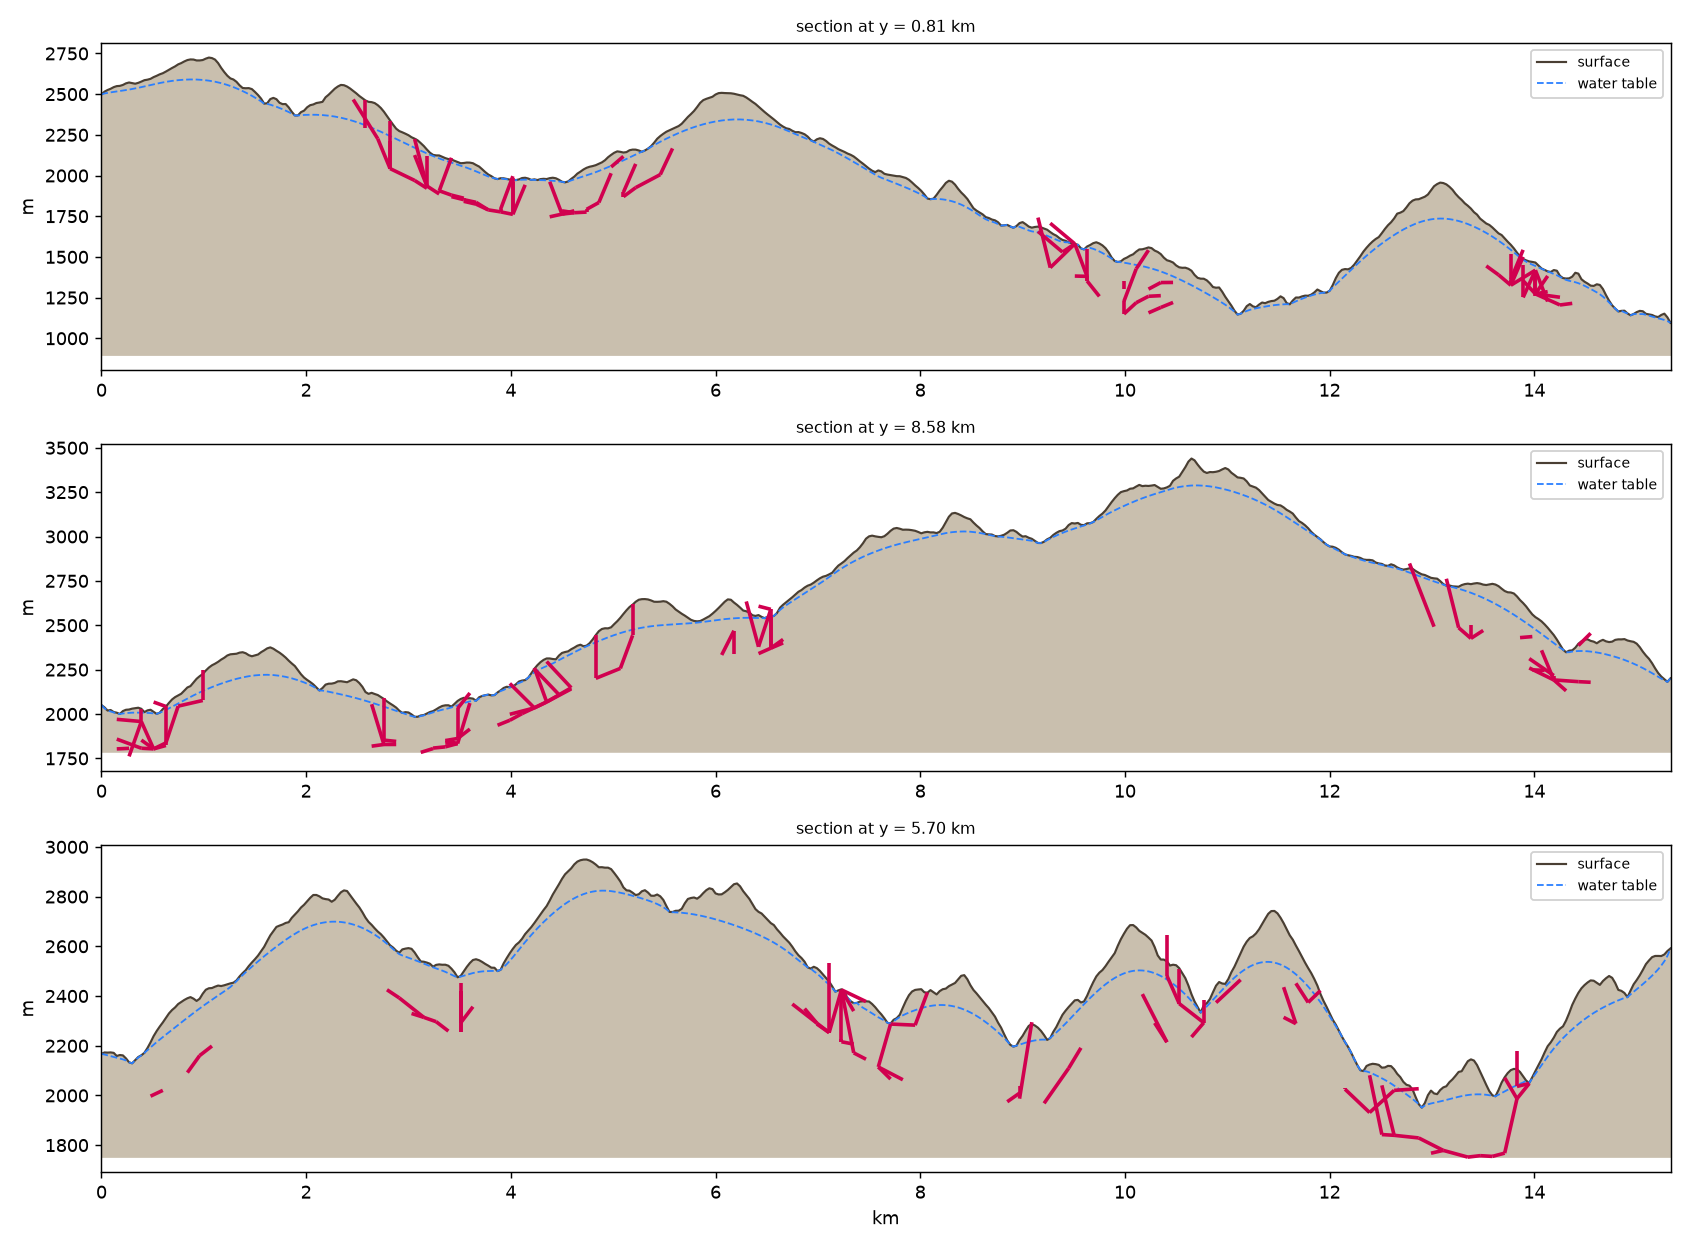
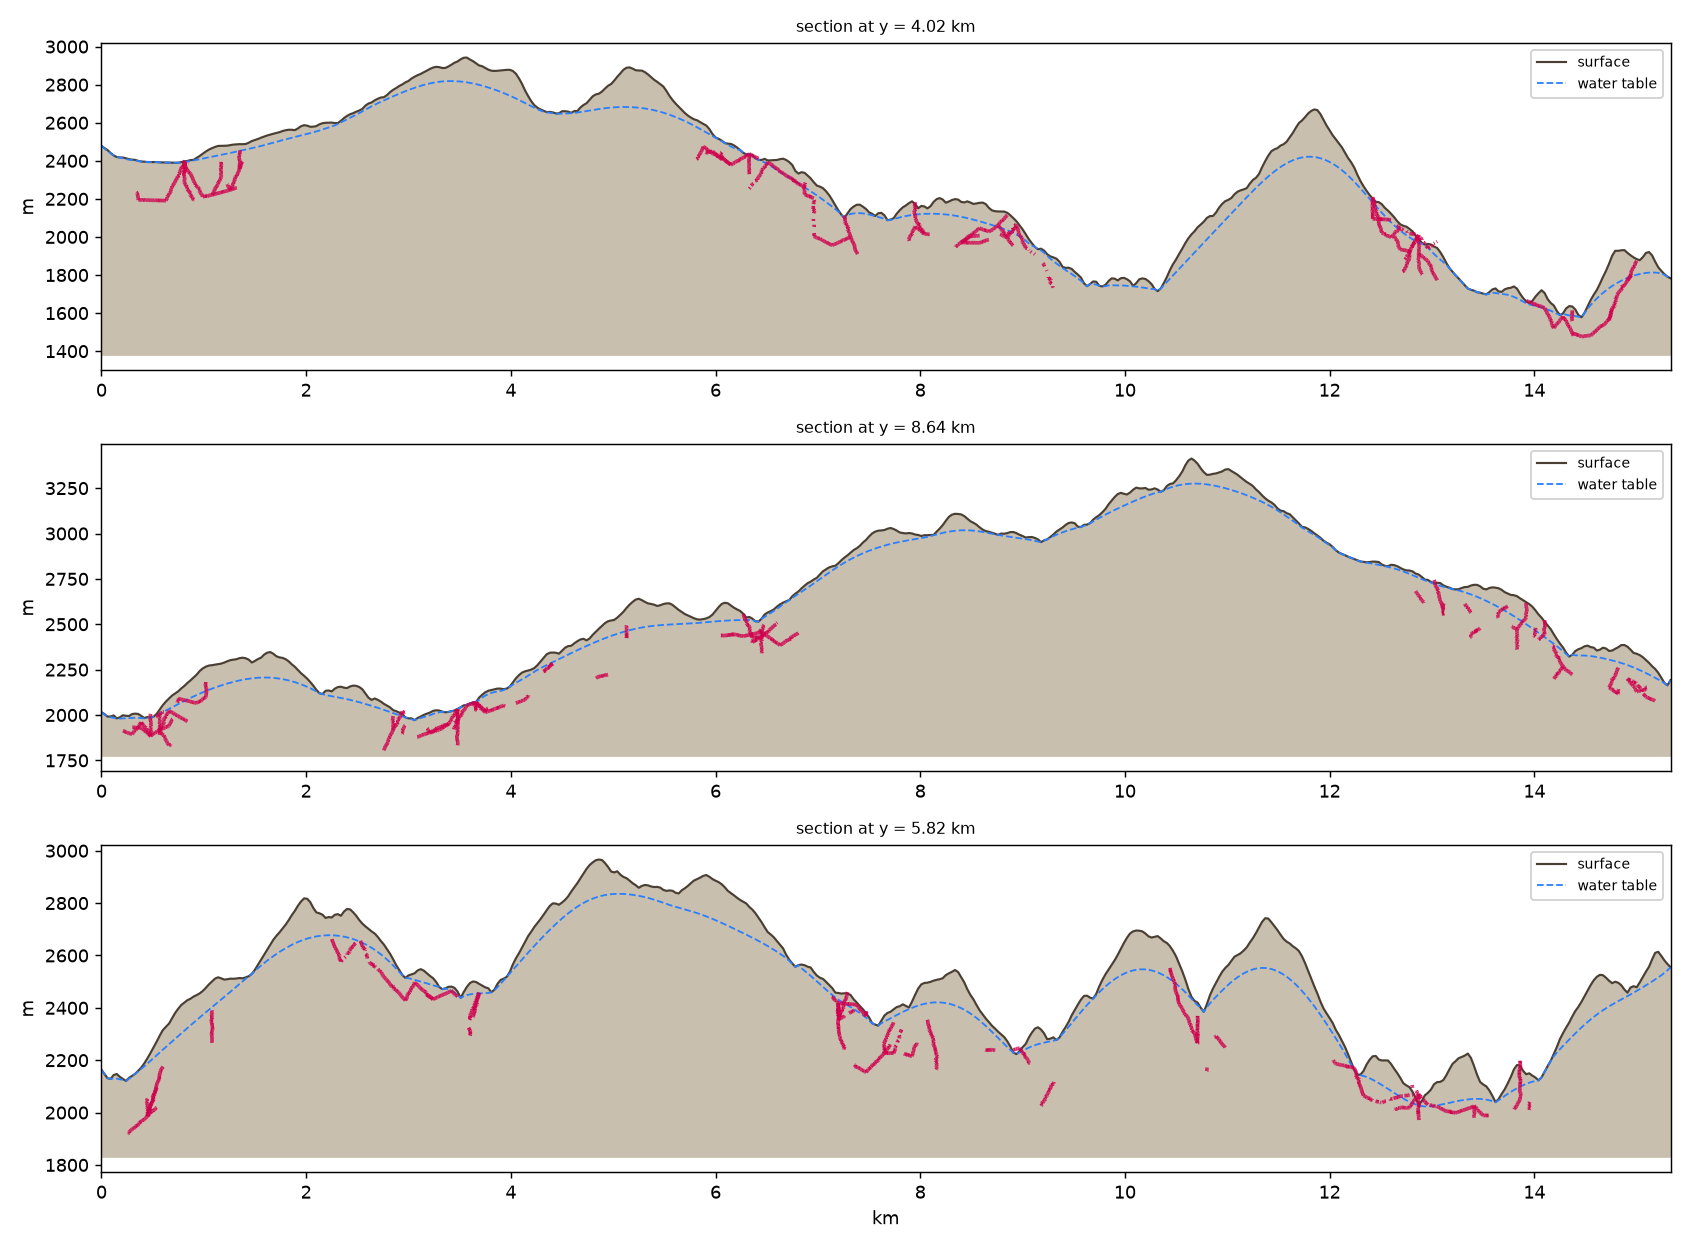
karst: sinuosity fixed -- tortuosity 1.14 -> 1.30, straight chains 45.6% -> 0.4%
Acceptance target from the previous commit MET (mean >= 1.3, straight < 10%).
Settings: node spacing 80 m, gamma 1.05, 20 dead-ends, wander 3.0, piece 5 m,
wander-z 0.10. Density 2.04 km/km^2, still inside the owner's 5x band.

THREE THINGS WERE WRONG, AND ONLY THE THIRD MATTERED.

1. HORIZONS WERE 2D. `incept` was the stratigraphic field sampled at the SURFACE
   and stored as a 2D array, then indexed by [my, mx] regardless of the node's
   z -- so a conduit at 1,900 m and one at 2,100 m in the same column got
   IDENTICAL horizon cost. The term carried no depth information whatsoever and
   could not make a route follow a bedding plane. Fixed: `inception_at`
   evaluated in 3D at the edge's own z, with one field shared by both stages
   rather than a second copy. It changed almost nothing on its own (1.098 mean,
   67.7% straight) and was worth fixing because it was wrong, not because it was
   the cause.

2. THE COST WEIGHTS CANNOT BEND A ROUTE, AND THAT IS MATHEMATICS RATHER THAN
   TUNING. Every term is multiplied by segment length, so the total is k*length
   with k varying slowly, and shortest-path over a smooth cost field is
   near-straight. Swept 3x3 over spacing and weights: mean tortuosity moved
   1.082 -> 1.156, nowhere near the target. Recorded so nobody sweeps it again.

3. SINUOSITY HAS TO BE ADDED, NOT OPTIMISED FOR -- what the reference method's
   midpoint subdivision does and what Minecraft's noise carving does. I had
[…]

diff --git a/terrain-service/tools/karst_network.py b/terrain-service/tools/karst_network.py
@@ -47,6 +47,11 @@ from scipy.sparse import coo_matrix
 from scipy.sparse.csgraph import dijkstra
 from scipy.spatial import cKDTree
 
+import sys as _sys, pathlib as _pl
+_sys.path.insert(0, str(_pl.Path(__file__).resolve().parent))
+from karst_prototype import inception_at  # noqa: E402  -- ONE horizon field, not two
+from karst_voxel import subdivide          # noqa: E402  -- ONE subdivision, not two
+
 GRID_M = 30.0
 EXAGGERATION = 5.0
 
@@ -58,6 +63,8 @@ W_PERM = 30.0
 W_FRACTURE = 15.0
 W_VADOSE = 40.0
 HORIZON_SHARP = 1.0
+FOLD = None
+SEED = 0
 BIG = 1.0e7
 
 #: Vertical sampling band, relative to the water table. Conduits form in a band
@@ -199,7 +206,12 @@ def edge_costs(nodes, idx_a, idx_b, elev, head, incept, coher, theta, log2acc):
     # line. `horizon_sharp` > 1 turns the horizon term into a narrow band, so
     # being ON a horizon is dramatically cheaper than being near one and the
     # route has a reason to bend.
-    horiz = np.clip(np.abs(incept[my, mx]), 0.0, 1.0) ** HORIZON_SHARP
+    # HORIZONS ARE EVALUATED IN 3D, AT THE EDGE'S OWN z. The previous version
+    # indexed a 2D array of the stratigraphic field sampled at the SURFACE, so
+    # a conduit at 1,900 m and one at 2,100 m in the same column got identical
+    # horizon cost -- the term carried no depth information and could not make
+    # a route follow a bedding plane. That is why conduits came out straight.
+    horiz = np.clip(np.abs(inception_at(mz, FOLD[my, mx], SEED)), 0.0, 1.0) ** HORIZON_SHARP
     cost += W_HORIZON * horiz * length / GRID_M
 
     # Permeability: high flow accumulation marks stress-relief fracturing and
@@ -334,7 +346,7 @@ def main() -> int:
     # the same trap docs/backlog.md section 0.6 already records for
     # GPUCullMergeGap and GPUCullMaxRanges. The `global` has to be declared
     # before argparse reads these names for its defaults.
-    global NODE_SPACING_M, NEIGHBOURS, W_DIST, W_HORIZON, HORIZON_SHARP
+    global NODE_SPACING_M, NEIGHBOURS, W_DIST, W_HORIZON, HORIZON_SHARP, FOLD, SEED
 
     ap = argparse.ArgumentParser(description=__doc__,
                                  formatter_class=argparse.RawDescriptionHelpFormatter)
@@ -348,6 +360,12 @@ def main() -> int:
     ap.add_argument("--w-horizon", type=float, default=W_HORIZON)
     ap.add_argument("--horizon-sharp", type=float, default=1.0,
                     help="exponent on the horizon term; >1 makes it a narrow band")
+    ap.add_argument("--piece-m", type=float, default=8.0,
+                    help="subdivision length for the sinuosity pass")
+    ap.add_argument("--wander-z", type=float, default=0.15,
+                    help="vertical share of the wander; see subdivide()'s note")
+    ap.add_argument("--wander", type=float, default=0.0,
+                    help="centreline displacement in piece lengths; 0 = straight")
     ap.add_argument("--deadends", type=int, default=0,
                     help="amplification key points per system (paper's Amplify)")
     ap.add_argument("--spring-sep-m", type=float, default=1500.0,
@@ -368,6 +386,10 @@ def main() -> int:
     incept, coher, theta = f["incept"], f["coher"], f["theta"]
     log2acc = f["log2acc"]
     sinks, springs = f["sinks"], f["springs"]
+    FOLD = f["fold_m"] if "fold_m" in f else np.zeros_like(elev)
+    SEED = int(f["seed_used"]) if "seed_used" in f else 20260719
+    if "fold_m" not in f:
+        print("  WARNING: fields file predates fold_m; horizons will be FLAT in z")
     rng = np.random.default_rng(12345)
 
     n_raw = len(springs)
@@ -411,10 +433,77 @@ def main() -> int:
             my = int(np.clip((a[1] + b[1]) * 0.5 / GRID_M, 0, elev.shape[0] - 1))
             depths.append(float(elev[my, mx] - (a[2] + b[2]) * 0.5))
 
+    # --- SINUOSITY, applied to the NETWORK rather than only at render time.
+    #
+    # Shortest-path over a smooth cost field is near-straight as a matter of
+    # mathematics, so no weighting of the geological terms will produce a
+    # meander -- swept, and it does not (mean tortuosity moved 1.08 -> 1.16
+    # across a 3x3 of spacing and weights). Real conduit sinuosity at the 10-50 m
+    # scale does not come from optimising a smooth field either; it comes from
+    # following discrete fractures and irregular dissolution. So it is ADDED,
+    # which is what the reference method's midpoint subdivision does and what
+    # Minecraft's noise carving does.
+    #
+    # It belongs HERE and not in the voxeliser: the skeleton is what gets baked,
+    # measured and shipped, and a sinuosity that exists only in a preview is a
+    # sinuosity the game never sees.
+    if args.wander > 0 and all_segments:
+        segs_in = np.asarray([[a, b] for a, b in all_segments], float)
+        all_segments = [(a.tolist(), b.tolist())
+                        for a, b in subdivide(segs_in, args.piece_m, args.wander,
+                                              z_scale=args.wander_z)]
+        lengths = [float(np.linalg.norm(np.asarray(b) - np.asarray(a)))
+                   for a, b in all_segments]
+
     total_km = sum(lengths) / 1000.0
+
+    # --- TORTUOSITY: the metric the owner's eye caught and mine did not have.
+    # Path length divided by straight-line distance, over maximal chains through
+    # degree-2 nodes. Surveyed karst runs about 1.3-2.0; a straight line is 1.0.
+    # Measured here rather than in a side script so every run reports it.
+    def tortuosity(segments):
+        if not segments:
+            return {}
+        key = lambda p: (round(float(p[0]), 1), round(float(p[1]), 1), round(float(p[2]), 1))
+        adj = collections.defaultdict(list)
+        for a, b in segments:
+            adj[key(a)].append(key(b)); adj[key(b)].append(key(a))
+        seen, tort = set(), []
+        for start in adj:
+            if len(adj[start]) == 2:
+                continue
+            for nb in adj[start]:
+                if (start, nb) in seen:
+                    continue
+                path, prev, cur = [start], start, nb
+                while True:
+                    path.append(cur)
+                    seen.add((prev, cur)); seen.add((cur, prev))
+                    if len(adj[cur]) != 2:
+                        break
+                    nxt = [n for n in adj[cur] if n != prev]
+                    if not nxt:
+                        break
+                    prev, cur = cur, nxt[0]
+                P = np.asarray(path, float)
+                if len(P) < 2:
+                    continue
+                L = float(np.linalg.norm(np.diff(P, axis=0), axis=1).sum())
+                C = float(np.linalg.norm(P[-1] - P[0]))
+                if C > 30.0:
+                    tort.append(L / C)
+        if not tort:
+            return {}
+        a = np.asarray(tort)
+        return {"chains": len(a), "mean": round(float(a.mean()), 3),
+                "p50": round(float(np.percentile(a, 50)), 3),
+                "p90": round(float(np.percentile(a, 90)), 3),
+                "straight_frac": round(float((a < 1.05).mean()), 3)}
     area_km2 = (elev.shape[0] * GRID_M / 1000.0) * (elev.shape[1] * GRID_M / 1000.0)
     stats = {
         "gamma": args.gamma, "deadends": args.deadends,
+        "wander": args.wander, "piece_m": args.piece_m,
+        "wander_z": args.wander_z,
         "node_spacing_m": NODE_SPACING_M, "neighbours": NEIGHBOURS,
         "spring_sep_m": args.spring_sep_m,
         "systems_total": len(systems), "systems_routed": routed,
@@ -430,6 +519,7 @@ def main() -> int:
             "p90": round(float(np.percentile(depths, 90)), 1) if depths else None,
             "max": round(float(np.max(depths)), 1) if depths else None,
         },
+        "tortuosity": tortuosity(all_segments),
         "seconds": round(time.time() - t0, 1),
     }
     print(json.dumps(stats, indent=2))

diff --git a/terrain-service/tools/karst_prototype.py b/terrain-service/tools/karst_prototype.py
@@ -175,10 +175,34 @@ def _value_noise_1d(x: np.ndarray, seed: int, wavelength: float) -> np.ndarray:
     return a * (1.0 - s) + b * s
 
 
+#: Horizon constants, module-level so the network stage evaluates the SAME
+#: field rather than growing a second copy of it.
+HORIZON_WAVELENGTH_M = 36.0 * EXAGGERATION
+HORIZON_FOLD_AMP_M = 12.0 * EXAGGERATION
+HORIZON_FOLD_WAVELENGTH_M = 300.0
+
+
+def inception_fold(x_m, y_m, seed: int):
+    """The fold that displaces the stratigraphic datum. Split out because the
+    network stage needs to evaluate horizons at a NODE'S OWN z, and a 2D array
+    of the field sampled at the surface cannot answer that -- which is exactly
+    the bug that made conduits straight: the horizon term carried no depth
+    information, so it could not make a route follow a bedding plane."""
+    return (HORIZON_FOLD_AMP_M * _value_noise_1d(x_m, seed ^ 0x11, HORIZON_FOLD_WAVELENGTH_M)
+            + HORIZON_FOLD_AMP_M * _value_noise_1d(y_m, seed ^ 0x22,
+                                                   HORIZON_FOLD_WAVELENGTH_M * 0.61))
+
+
+def inception_at(z_m, fold, seed: int):
+    """Signed stratigraphic field at an arbitrary z. Zero crossings are the
+    horizons; descending crossings are strong-over-weak contacts."""
+    return _value_noise_1d(z_m + fold, seed ^ 0x33, HORIZON_WAVELENGTH_M)
+
+
 def inception_field(z_m: np.ndarray, x_m: np.ndarray, y_m: np.ndarray, seed: int,
-                    wavelength_m: float = 36.0 * EXAGGERATION,
-                    fold_amp_m: float = 12.0 * EXAGGERATION,
-                    fold_wavelength_m: float = 300.0) -> np.ndarray:
+                    wavelength_m: float = HORIZON_WAVELENGTH_M,
+                    fold_amp_m: float = HORIZON_FOLD_AMP_M,
+                    fold_wavelength_m: float = HORIZON_FOLD_WAVELENGTH_M) -> np.ndarray:
     """The stratigraphic field. Horizons are its DESCENDING zero crossings.
 
     Same construction as `repose_field`'s strata term: 1-D noise over elevation
@@ -364,7 +388,10 @@ def main() -> int:
         "seconds": round(time.time() - t0, 2),
     }
     (args.out / f"{f['tile']}-fields.json").write_text(json.dumps(stats, indent=2))
+    fold = inception_fold(X, Y, seed)
     np.savez_compressed(args.out / f"{f['tile']}-fields.npz",
+                        fold_m=fold.astype(np.float32),
+                        seed_used=np.int64(seed),
                         elev_m=f["elev_m"].astype(np.float32),
                         head_m=head.astype(np.float32),
                         incept=incept_surface.astype(np.float32),

diff --git a/terrain-service/tools/karst_voxel.py b/terrain-service/tools/karst_voxel.py
@@ -97,7 +97,7 @@ def _vnoise(p, cell, seed):
     return acc
 
 
-def subdivide(seg, piece_m, wander, seed=7):
+def subdivide(seg, piece_m, wander, seed=7, z_scale=0.15):
     """MIDPOINT SUBDIVISION WITH DISPLACEMENT -- the step the reference code
     lists as missing, and the reason a first implementation looks wrong.
 
@@ -113,6 +113,14 @@ def subdivide(seg, piece_m, wander, seed=7):
     So each edge is cut into `piece_m` pieces and every interior point is pushed
     off the chord by value noise, with the amplitude scaled by the piece length
     so the wander is a shape property rather than a fixed wobble.
+
+    `z_scale` IS NOT A TASTE PARAMETER, IT IS THE DIFFERENCE BETWEEN A CAVE AND
+    A ROLLERCOASTER. Real passages meander in PLAN far more than they undulate
+    in PROFILE: a phreatic tube follows the water table and a vadose canyon
+    follows the hydraulic gradient, and both are smooth in z. Displacing z as
+    hard as x and y (the first version used 0.6) put a several-metre rise and
+    fall into every 5 m piece, which took the fraction of the network reachable
+    on foot from 92.1% to 37.6% -- measured, not predicted. Keep this small.
     """
     out = []
     for a, b in seg:
@@ -125,7 +133,7 @@ def subdivide(seg, piece_m, wander, seed=7):
             amp = wander * piece_m * taper
             d = np.array([_vnoise(pts[k], piece_m * 2.5, seed + 11),
                           _vnoise(pts[k], piece_m * 2.5, seed + 23),
-                          _vnoise(pts[k], piece_m * 2.5, seed + 37) * 0.6])
+                          _vnoise(pts[k], piece_m * 2.5, seed + 37) * z_scale])
             pts[k] = pts[k] + d * amp
         for k in range(n):
             out.append((pts[k], pts[k + 1]))

diff --git a/docs/karst-prototype-status-2026-08-19.md b/docs/karst-prototype-status-2026-08-19.md
@@ -208,10 +208,66 @@ happened.
 under 10% of chains below 1.05.** That is a number the next attempt can be
 measured against instead of another round of looking.
 
+## FIXED: tortuosity 1.14 -> 1.30, straight chains 45.6% -> 0.4%
+
+**Acceptance target met** (mean >= 1.3, straight < 10%). Settings:
+`--node-spacing-m 80 --gamma 1.05 --deadends 20 --wander 3.0 --piece-m 5
+--wander-z 0.10`. Density 2.04 km/km^2, still inside the 5x band.
+`docs/images/karst/centreline-fixed.png`.
+
+**Three things were wrong, and only the third one mattered.**
+
+1. **Horizons were 2D.** `incept` was the stratigraphic field sampled at the
+   SURFACE and stored as a 2D array, then indexed by `[my, mx]` regardless of
+   the node's z -- so a conduit at 1,900 m and one at 2,100 m in the same column
+   got identical horizon cost. The term carried no depth information and could
+   not make a route follow a bedding plane. Fixed (`inception_at`, evaluated in
+   3D at the edge's own z, one field shared by both stages). **It changed
+   almost nothing on its own: 1.098 mean, 67.7% straight.** Worth fixing because
+   it was simply wrong, not because it was the cause.
+2. **The cost weights cannot bend a route, and this is mathematics rather than
+   tuning.** Every term is multiplied by segment length, so the total is
+   `k x length` with `k` varying slowly, and shortest-path over a smooth cost
+   field is near-straight. Swept 3x3 over spacing and weights: mean tortuosity
+   moved 1.082 -> 1.156, nowhere near 1.3. **Stop trying to weight your way to
+   sinuosity.**
+3. **Sinuosity has to be ADDED, not optimised for** -- which is what the
+   reference method's midpoint subdivision does and what Minecraft's noise
+   carving does. I had implemented it in the VOXELISER only, and judged it by
+   eye at 900 m zoom where a 6 m meander is invisible. Moved into the network
+   stage, where the skeleton that actually gets baked and shipped lives, and
+   measured instead of eyeballed.
+
+**The trade it forces, measured: sinuosity costs walkability.**
+
+| wander_z | tortuosity | straight | walk-reachable | with jumps |
+|---|---|---|---|---|
+| 0.05 | 1.304 | 0.4% | 13.2% | 55.8% |
+| **0.10** | **1.30** | **0.4%** | **12.0%** | **~55%** |
+| 0.30 | 1.314 | 0.3% | 9.7% | 50.0% |
+| 0.60 | 1.343 | 0.2% | 7.0% | 37.6% |
+
+Vertical displacement is not a taste parameter. At 0.6 it puts a several-metre
+rise and fall into every 5 m piece, which is a rollercoaster, not a cave. Real
+passages meander in PLAN far more than they undulate in PROFILE, because a
+phreatic tube follows the water table and a vadose canyon follows the hydraulic
+gradient, and both are smooth in z.
+
+**AND IT FORCES A CORRECTION TO AN EARLIER NUMBER.** The 92.1% foot-reachable
+figure reported before was an artefact of coarse segments: gradient averaged
+over 217 m hides local steepness the player actually walks into. At a realistic
+5 m piece length the honest figure is **~55%**. The earlier number was measured
+correctly and meant less than it looked like -- the same averaging trap
+`voxelsim-terracing-measure-plateau-area` already records.
+
+**One cost to carry into the format design:** subdivision takes the skeleton
+from 2,880 to 80,820 segments, ~28x. The `.vxkn` budget in the plan (~280 KB per
+tile) was sized on unsubdivided nodes and needs re-deriving -- or the wander
+needs to be applied at read time from a seed rather than stored, which is the
+cheaper answer and worth designing for.
+
 ## Next, in order
 
-0. **Fix the straightness** (above). It is the blocking defect and it has an
-   acceptance number.
 1. **Owner looks at the map and sections** in `docs/images/karst/` and says
    whether the shape reads. Density is in band; shape is his call.
 1b. **Owner decides the radius DISTRIBUTION** — uniform 5x (no crawls, current)
